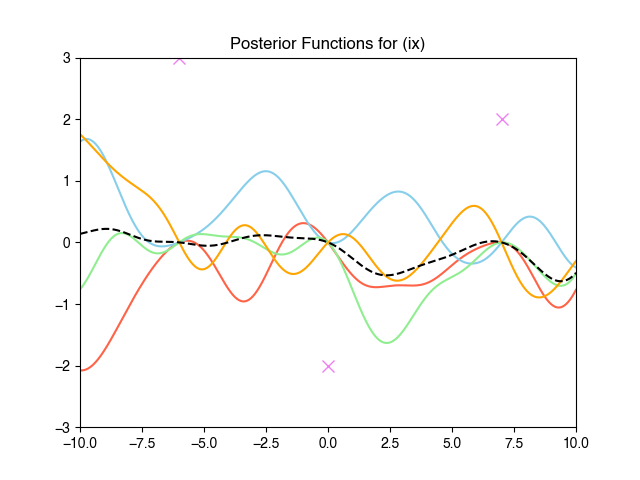
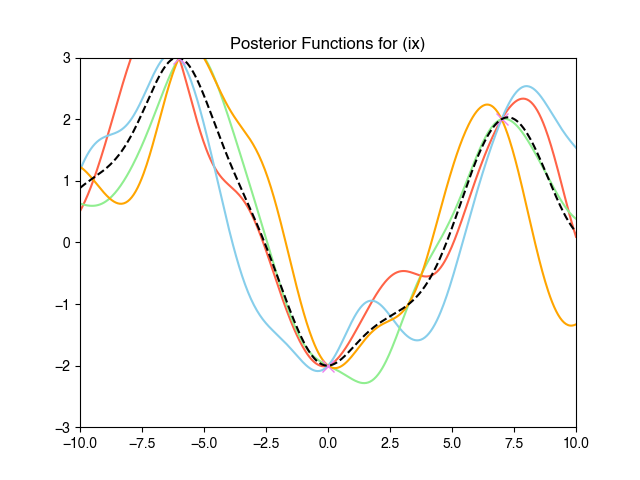
recitify posterior gaussian

diff --git a/hw4/hw4-3.py b/hw4/hw4-3.py
@@ -6,6 +6,17 @@ import matplotlib.pyplot as plt
 mpl.rcParams['font.family'] = 'Helvetica'
 
 
+# TODO: customize the parameters
+################################################
+iteration = 50
+k = 10
+run_dist = False  # set to False if the path distance matrix is already calculated
+data_name = "swiss_roll"  # "swiss_roll", "swiss_roll_hole"
+data_path = "../data/hw4/"  # data file path
+array_path = "./array-data/"  # array file path
+output_path = "./output/"  # output file path
+################################################
+
 def read_data(file_path):
     """
     Load the data from the file
@@ -136,17 +147,6 @@ class EmbeddingOptimizer:
 
 
 if __name__ == '__main__':
-    # TODO: customize the parameters
-    ################################################
-    iteration = 50
-    k = 10
-    run_dist = False  # set to False if the path distance matrix is already calculated
-    data_name = "swiss_roll"  # "swiss_roll", "swiss_roll_hole"
-    data_path = "../data/hw4/"  # data file path
-    array_path = "./array-data/"  # array file path
-    output_path = "./output/"  # output file path
-    ################################################
-
     file = f"{data_path}{data_name}.txt"  # data file path
     knn_filename = f"{array_path}{data_name}_knn_{k}.npy"
     output_filename = f"{array_path}{data_name}_embedding.npy"

diff --git a/hw4/hw4-2.py b/hw4/hw4-2.py
@@ -46,9 +46,8 @@ def posterior_inference(X, X_train, Y_train, kernel):
     _X = np.hstack([X, X_train])
     sigma = kernel_matrix(_X.reshape((m+n, -1)), kernel)
     sigma11, sigma12, sigma21, sigma22 = sigma[:n, :n], sigma[:n, n:], sigma[n:, :n], sigma[n:, n:]
-    mu1 = np.zeros(n)
-    posterior_mu = mu1
     inv_sigma22 = np.linalg.pinv(sigma22) if np.linalg.det(sigma22) == 0 else np.linalg.inv(sigma22)
+    posterior_mu = sigma12 @ inv_sigma22 @ Y_train
     posterior_sigma = sigma11 - sigma12 @ inv_sigma22 @ sigma21
     return posterior_mu, posterior_sigma
 
@@ -116,7 +115,7 @@ def visualization(x, Y, title):
     for i in range(n):
         plt.plot(x, Y[i, :], '-', markersize=0.5, color=colors[i])
         plt.xlim([-10, 10])
-        plt.ylim([-3, 3])
+        plt.ylim([-4, 4])
     return plt
 
 
